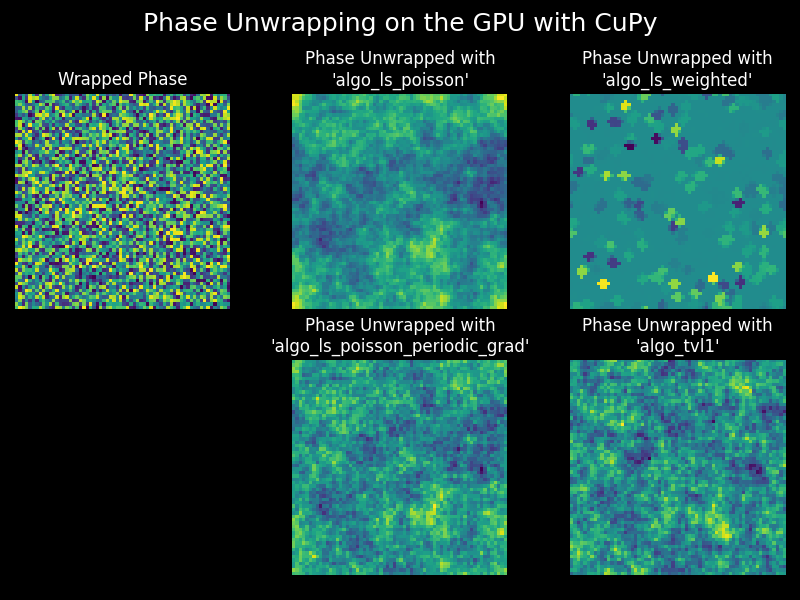
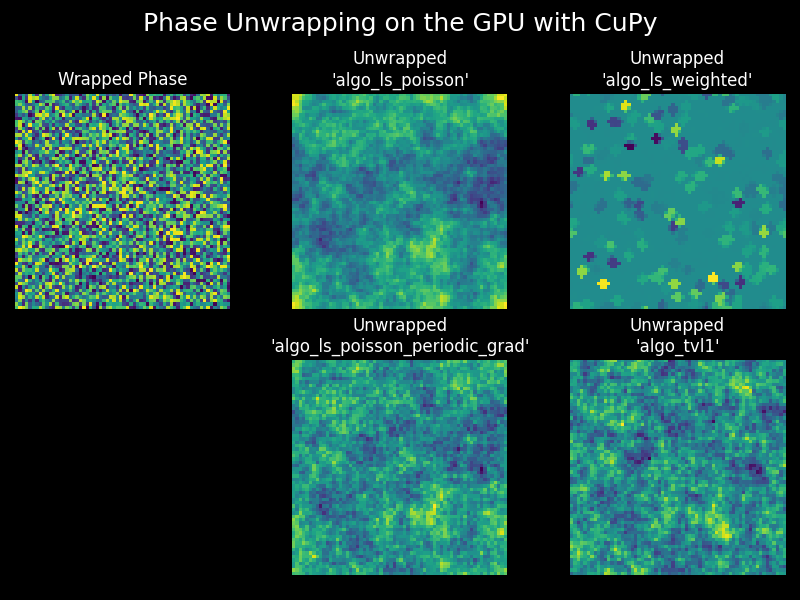
docs: add real hologram example with plot

diff --git a/examples/gpu_field_retr_phase_unwrapping.py b/examples/gpu_field_retr_phase_unwrapping.py
@@ -7,101 +7,44 @@ from pathlib import Path
 
 import matplotlib.pyplot as plt
 import numpy as np
+import qpretrieve
 import unwrap_phase_gpu as upg
-
-# --- User settings (edit these in PyCharm) ---
-DATA_PATH = Path(r"PATH\TO\off_axis_hologram.npy")
-BG_PATH = None  # e.g. Path(r"PATH\TO\background.npy")
-DATA_KEY = "data"  # used only for .npz
-BG_KEY = "bg_data"  # used only for .npz
-
-FILTER_NAME = "smooth disk"
-FILTER_SIZE = 0.5
-SCALE_TO_FILTER = False
-SAVE_PATH = None  # e.g. "field_retr_unwrap.png"
-
-
-def _load_hologram(path: Path, key: str | None) -> np.ndarray:
-    if path.suffix == ".npy":
-        return np.load(path)
-    if path.suffix == ".npz":
-        data = np.load(path)
-        if key is None:
-            raise ValueError("NPZ input requires a key.")
-        return data[key]
-    raise ValueError("Unsupported input format. Use .npy or .npz.")
-
-
-def _to_numpy(arr):
-    if hasattr(arr, "get"):
-        return arr.get()
-    return np.asarray(arr)
-
 
 # Force GPU backend for both libraries.
 upg.set_ndarray_backend("cupy")
 qpretrieve.set_ndarray_backend("cupy")
 xp = upg.get_ndarray_backend()
 
+edata = np.load("./data/hologram_cell.npz")
+holo = qpretrieve.OffAxisHologram(data=edata["data"])
+bg = qpretrieve.OffAxisHologram(data=edata["bg_data"])
 
-# --- Load hologram(s) ---
-if not DATA_PATH.exists():
-    raise SystemExit(f"DATA_PATH does not exist: {DATA_PATH}")
+holo.run_pipeline(filter_name="disk", filter_size=1 / 2, scale_to_filter=True)
+bg.process_like(holo)
+phase_wrapped = xp.asarray(holo.phase - bg.phase).astype(xp.float32)
 
-holo_data = _load_hologram(DATA_PATH, DATA_KEY)
-bg_data = _load_hologram(BG_PATH, BG_KEY) if BG_PATH else None
-
-holo = qpretrieve.OffAxisHologram(data=xp.asarray(holo_data))
-holo.run_pipeline(
-    filter_name=FILTER_NAME,
-    filter_size=FILTER_SIZE,
-    scale_to_filter=SCALE_TO_FILTER,
-)
-
-if bg_data is not None:
-    bg = qpretrieve.OffAxisHologram(data=xp.asarray(bg_data))
-    bg.process_like(holo)
-    phase_wrapped = (
-        holo.get_data_with_input_layout(holo.phase)
-        - bg.get_data_with_input_layout(bg.phase)
-    )
-else:
-    phase_wrapped = holo.get_data_with_input_layout(holo.phase)
-
-phase_wrapped = xp.asarray(phase_wrapped).astype(xp.float32)
-
-
-# --- Unwrap with all algorithms ---
+# Unwrap the phase with all available algorithms
 outputs = {}
 for algo_name, algo in upg.algos_available().items():
     outputs[algo_name] = algo(phase_wrapped)
 
-
-# --- Plot ---
+# plot the wrapped and unwrapped phases
 plt.style.use("dark_background")
-n_plots = 1 + len(outputs)
-n_cols = 3
-n_rows = (n_plots + n_cols - 1) // n_cols
+fig, axes = plt.subplots(2, 3, figsize=(8, 6))
+fig.suptitle("Field Retrieval + Phase Unwrapping (GPU)", fontsize=18)
+axes = axes.flatten(order="F")
 
-fig, axes = plt.subplots(n_rows, n_cols, figsize=(9, 3 * n_rows))
-fig.suptitle("Field Retrieval + Phase Unwrapping (GPU)", fontsize=16)
-axes = np.atleast_1d(axes).ravel(order="F")
-
-axes[0].imshow(_to_numpy(phase_wrapped))
+axes[0].imshow(phase_wrapped.get()[0])
 axes[0].set_title("Wrapped Phase")
-axes[0].set_axis_off()
 
-for i, (algo_name, arr) in enumerate(outputs.items(), start=1):
+for i, (algo_name, arr) in enumerate(outputs.items(), start=2):
     ax = axes[i]
-    ax.imshow(_to_numpy(arr))
+    ax.imshow(arr.get()[0])
     ax.set_title(f"Unwrapped\n{algo_name}")
-    ax.set_axis_off()
 
-for ax in axes[n_plots:]:
+for ax in axes:
     ax.set_axis_off()
 
 plt.tight_layout(w_pad=4.5)
-if SAVE_PATH:
-    plt.savefig(SAVE_PATH, dpi=150)
-else:
-    plt.show()
+plt.savefig("gpu_field_retr_phase_unwrapping.png")
+# plt.show()

diff --git a/examples/phase_unwrap_algos.py b/examples/phase_unwrap_algos.py
@@ -23,14 +23,13 @@ axes = axes.flatten(order='F')
 
 axes[0].imshow(phase_stack[0].get())
 axes[0].set_title("Wrapped Phase")
-axes[0].set_axis_off()
-axes[1].set_axis_off()
-for i, (algo_name, arr) in enumerate(outputs.items()):
-    ax_num = i + 2
+for i, (algo_name, arr) in enumerate(outputs.items(), start=2):
     arr_cpu = arr.get()[0]
-    axes[ax_num].imshow(arr_cpu)
-    axes[ax_num].set_title(f"Phase Unwrapped with\n'{algo_name}'")
-    axes[ax_num].set_axis_off()
+    axes[i].imshow(arr_cpu)
+    axes[i].set_title(f"Unwrapped\n'{algo_name}'")
+
+for ax in axes:
+    ax.set_axis_off()
 
 plt.tight_layout(w_pad=4.5)
 # plt.show()